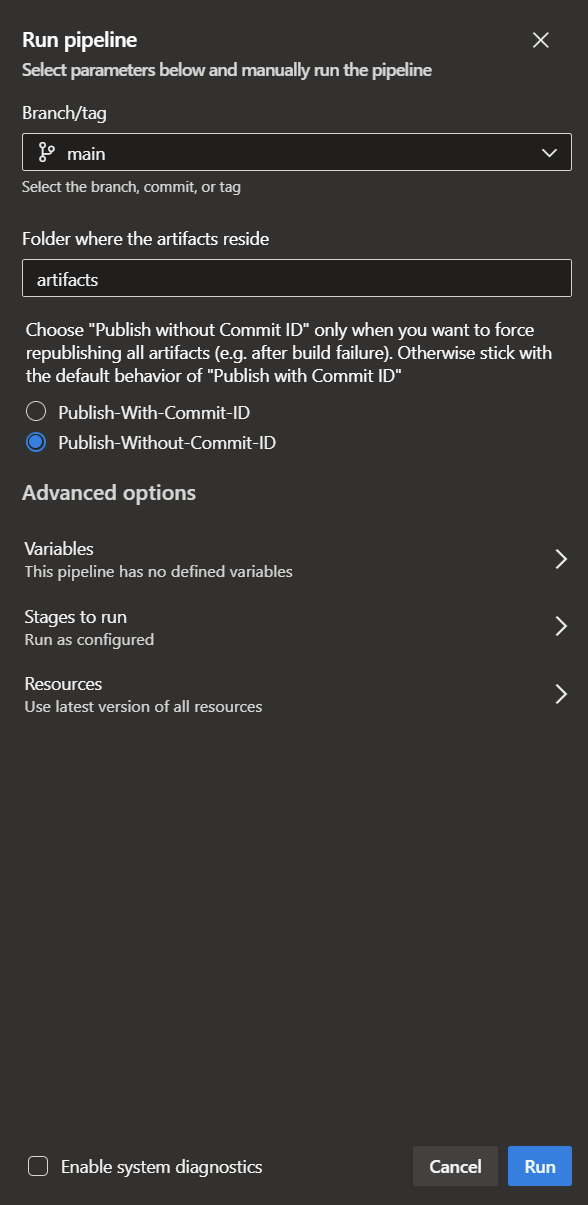
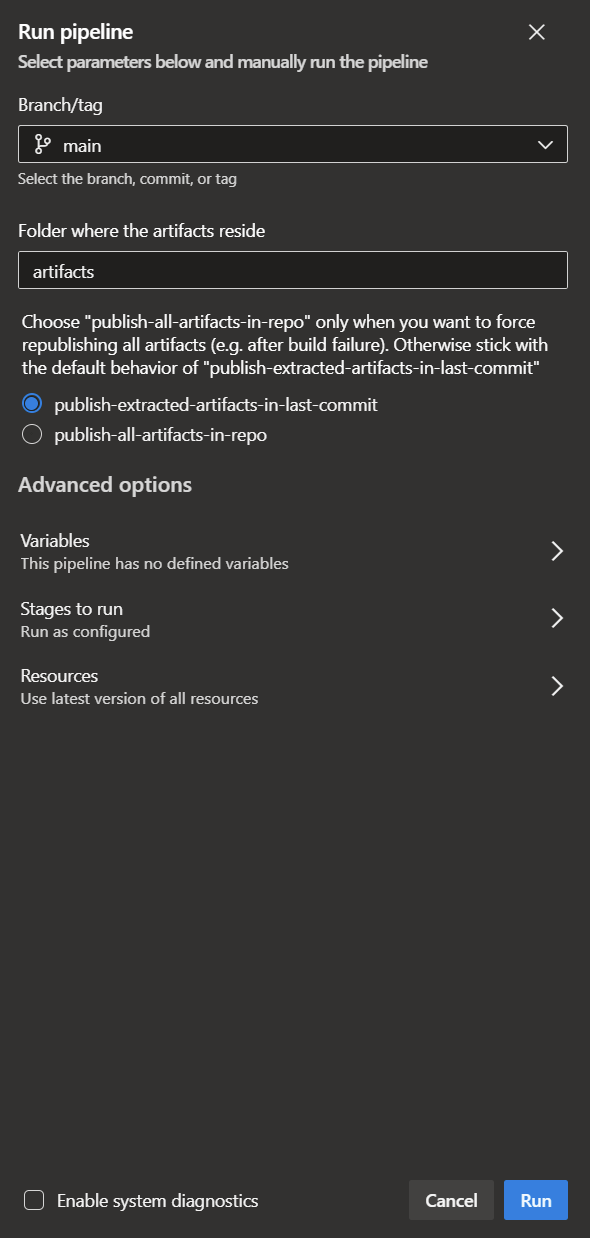
Refactored devops pipelines

diff --git a/docs/apiops/7-additionalTopics/apiops-7-3-rerunningFailedBuilds.md b/docs/apiops/7-additionalTopics/apiops-7-3-rerunningFailedBuilds.md
@@ -9,8 +9,10 @@ nav_order: 3
 Failed builds can happen due to intermittent issues or due to a misconfiguration, or simply a rejection of the code as its being promoted (this applies to the publisher only).
 When running the extractor pipeline recovering from a failed build is straight forward as you can simply retrigger the extractor pipeline to regenerate the artifacts. The publisher pipeline on the other hand requires a bit more attention. There are couple scenarios which would require rerunning the publisher build pipeline. In this section we will cover these two use cases so you can account for them in your environment.
 ### Recovering from a failed build that involves added artifacts
-This use case is straight forward as you can manually rerun the publisher  without passing a commit id. When the publisher pipeline is triggered without a commit id the publisher tool will republish everything that resides in the artifacts folder. As shown below you have the choice to manually trigger the Publish artifacts pipeline and choose to publish all the artifacts 
+This use case is straight forward as you can manually rerun the publisher without passing a commit id which will instruct it to republish all the artifacts that currently reside within the repo's artifacts folder. As shown below you have the choice to manually trigger the Publish artifacts pipeline and choose to publish all the artifacts. 
 ![run publisher without commit id](../../assets/images/run_publisher_without_commitid.png)
+
+Its important to note here that if the build fails due to a misconfiguration in the yaml configuration file (e.g. configuration.prod.yaml), make sure you modify the configuration file and then manually run the publisher pipeline to republish all the artifacts. Also make sure you abandon the build that gets triggered as a result of the commit for the configuration as its won't be necessary to complete since it will be covered in the other pipeline run.
 ### Recovering from a failed build that involves deleted artifacts
 Now if a build fails which involves deleted files then its a bit trickier as running without a commit id will republish all the artifacts and hence it won't capture the deleted file. Lets take a scenario where you are promoting the artifacts from lower environment to higher environment for the first time. Lets say that the build fails. Then someone decides to delete an api and push the code which now introduces a new commit. If you were to run the publisher against that last commit then you will loose the changes in the previous commit which captured the added artifacts. The solution here is to rerun the two failed builds in the proper order. In this case you would finish the failed build which was trying to add followed by the build which is deleting as shown in the image below:
 ![rerun failed builds](../../assets/images/rerunning_failed_builds.png)
